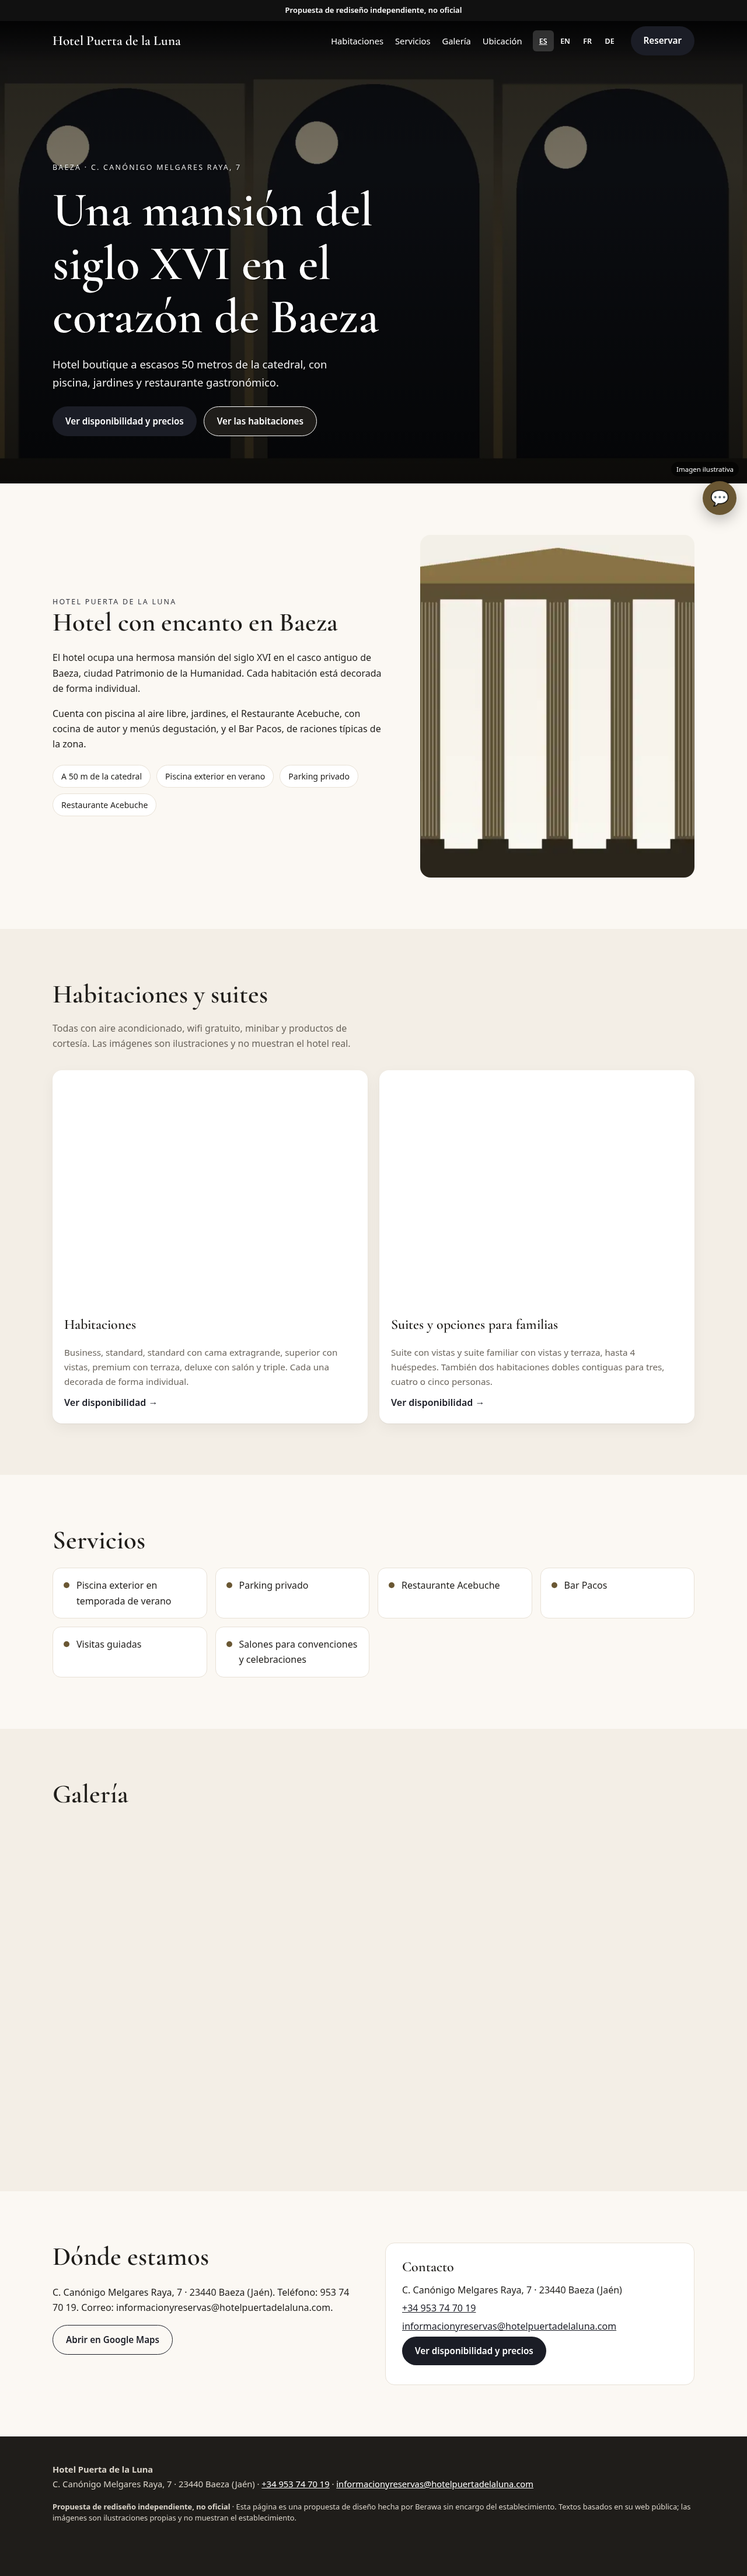
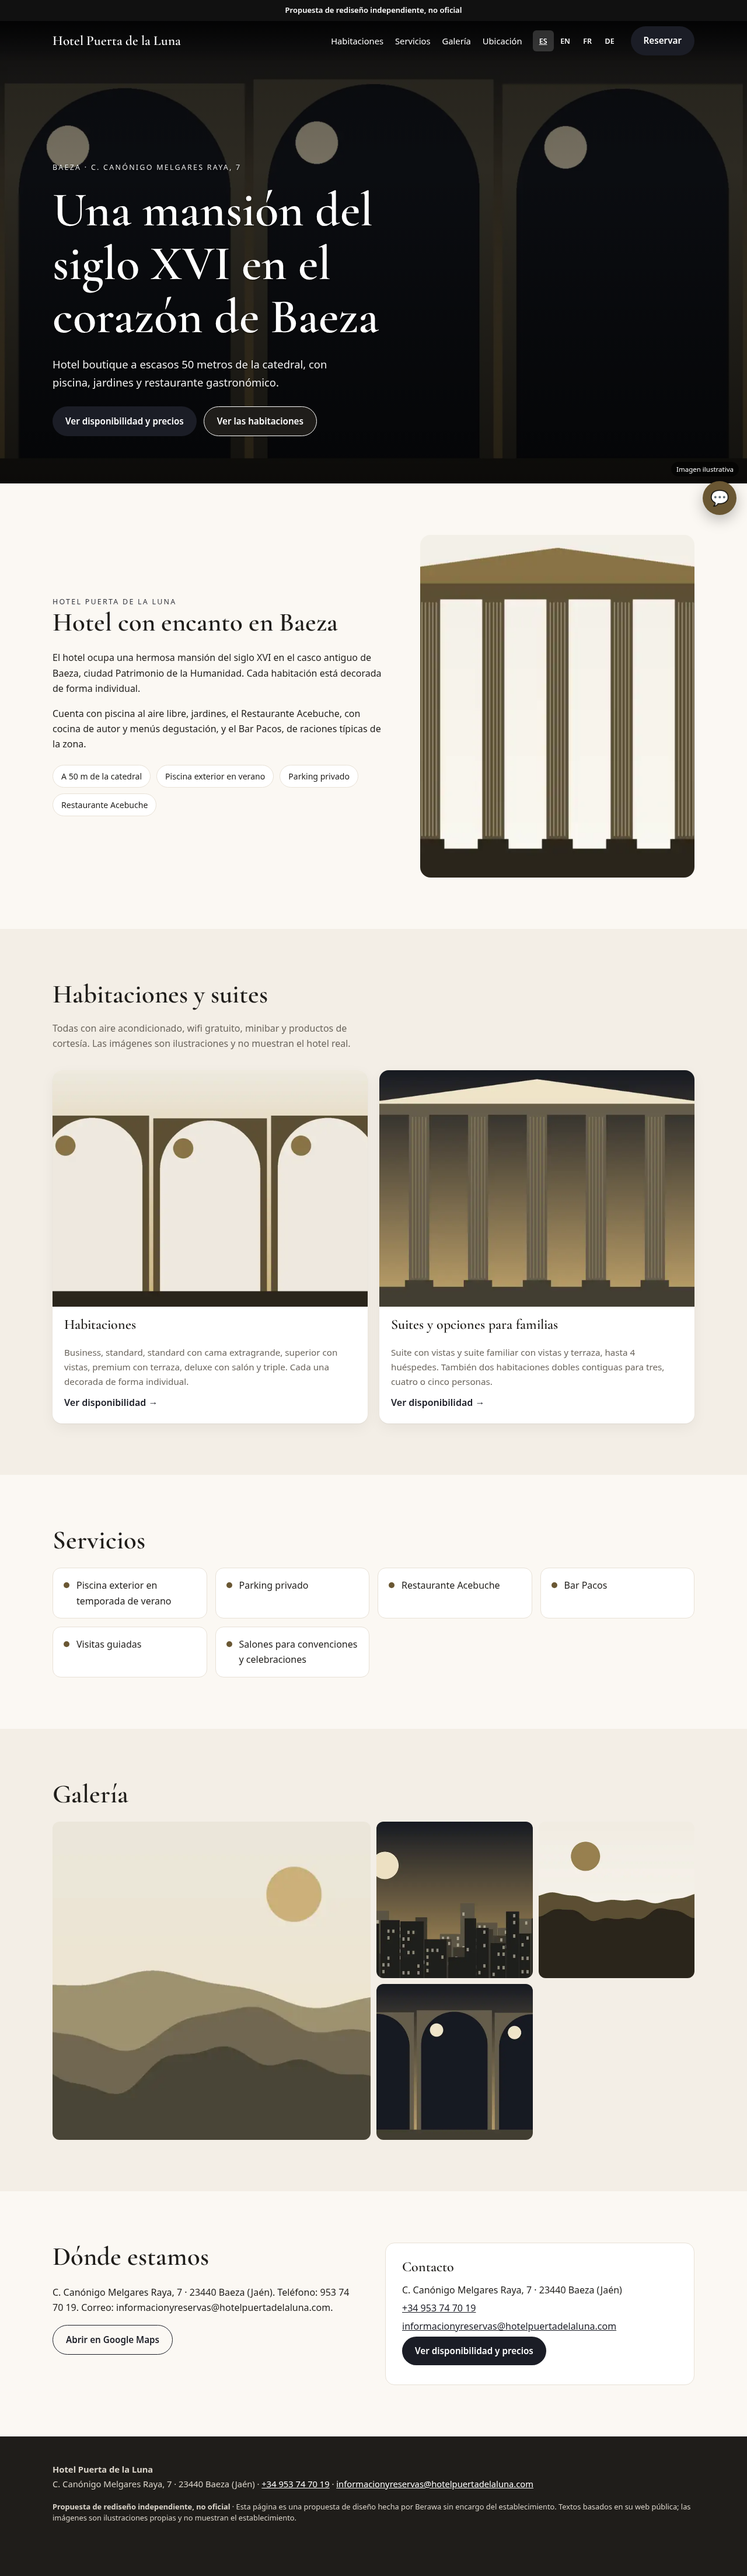
docs: informe QA Grok (A1-A11, C01-C16, Lighthouse) y evidencias tras la correccion

Changed region(s): [[0.0625, 0.4037, 0.9375, 0.5279], [0.0625, 0.6831, 0.9375, 0.8384], [0.3438, 0.7142, 0.4375, 0.7452]]

diff --git a/berawa/QA-GROK.md b/berawa/QA-GROK.md
@@ -2,9 +2,9 @@
 
 Autocontrol de fabricación (G04, A1–A11) y checklist C01–C16 (`docs/BERAWA-QA-CHECKLIST.md`) pasados por Grok antes del PR. **No es una auditoría independiente ni una aprobación**: Codex solo audita una muestra y nada se publica ni se envía sin visto bueno de Juan.
 
-- Rama: `demo/hotel-puerta-de-la-luna-baeza` · HEAD de las pruebas: `418037a0b42eed84796d06cce5082f4889ec31cf` · fecha: 02/11/2026 07:24 (Europe/Madrid)
+- Rama: `demo/hotel-puerta-de-la-luna-baeza` · HEAD de las pruebas: `a0f8e5e3b62600820ef38330e02fd88fda914b9b` · fecha: 02/11/2026 08:44 (Europe/Madrid)
 - Entorno: Chromium de Playwright (instalado por `playwright install chromium` en el clon limpio), axe-core 4.14.0, Lighthouse 13.6.0 (3 pasadas, mediana).
-- Resultado: **QA_GROK_FAIL**
+- Resultado: **QA_GROK_PASS**
 - Negocio medido: Maps 4.4 (LEIDA, coincide tel, web) · web original: LCP > 4 s · titular Hotel Acebuche S.L. (persona jurídica, sin cadena).
 
 ## Controles A1–A11
@@ -25,12 +25,12 @@ Autocontrol de fabricación (G04, A1–A11) y checklist C01–C16 (`docs/BERAWA-
 ## Checklist C01–C16
 | Código | Control | Resultado | Evidencia |
 |---|---|---|---|
-| C01 | Repositorio y SHA | **CUMPLE** | HEAD del clon limpio = 418037a0b42eed84796d06cce5082f4889ec31cf (el SHA final del PR es el del commit que añade este informe) |
+| C01 | Repositorio y SHA | **CUMPLE** | HEAD del clon limpio = a0f8e5e3b62600820ef38330e02fd88fda914b9b (el SHA final del PR es el del commit que añade este informe) |
 | C02 | Identidad y fuentes | **CUMPLE** | nombre, teléfono, dirección y datos comerciales con cita literal en berawa/knowledge.json; titular persona jurídica sin cadena y nota de Maps en berawa/evidence/captacion.json |
 | C03 | Licencias | **CUMPLE** | asset_manifest.json: ilustraciones propias generadas (origin=generated) y fuente Cormorant OFL; ninguna imagen, logo ni vídeo del negocio |
 | C04 | Diseño personalizado y no suplantador | **CUMPLE** | paleta e ilustraciones propias, aviso «Propuesta de rediseño independiente, no oficial» arriba y en el pie, sin logo ni marca del negocio; revisión visual de qa/capturas/ |
-| C05 | Móvil 375 px en navegador real | **NO** | qa/capturas/movil-*.png; desbordamiento horizontal 16 px; axe y teclado en 375 px |
-| C06 | Escritorio 1280 px en navegador real | **NO** | qa/capturas/escritorio-*.png; desbordamiento horizontal 0 px; axe y teclado en 1280 px |
+| C05 | Móvil 375 px en navegador real | **CUMPLE** | qa/capturas/movil-*.png; desbordamiento horizontal 0 px; axe y teclado en 375 px |
+| C06 | Escritorio 1280 px en navegador real | **CUMPLE** | qa/capturas/escritorio-*.png; desbordamiento horizontal 0 px; axe y teclado en 1280 px |
 | C07 | Español completo, botones y chatbot | **CUMPLE** | qa/chat-i18n.json (es) |
 | C08 | Alemán completo, botones y chatbot | **CUMPLE** | qa/chat-i18n.json (de) |
 | C09 | Inglés completo, botones y chatbot | **CUMPLE** | qa/chat-i18n.json (en) |
